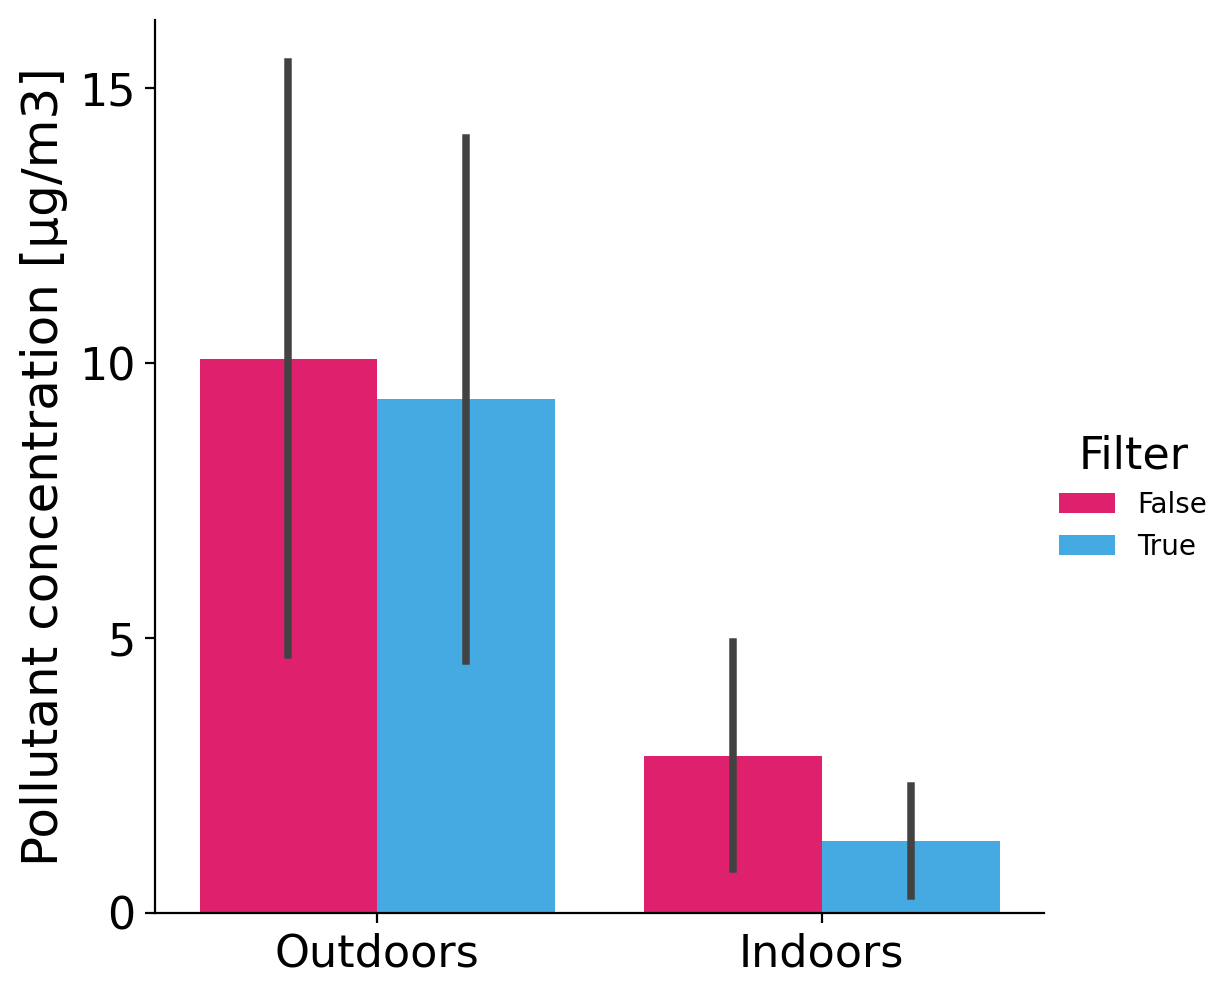
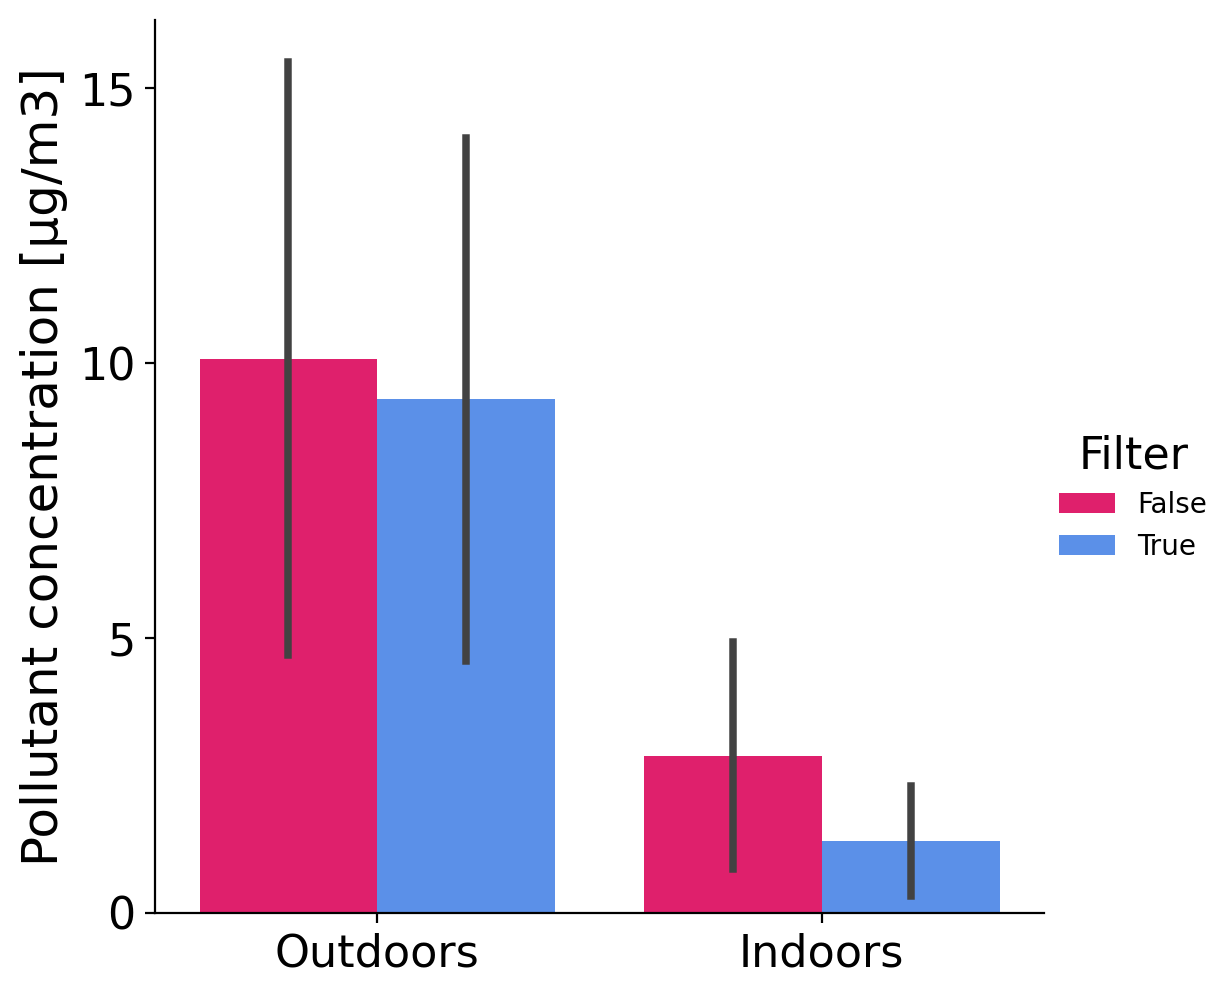
Adjusted plot layout. Plot vertical line to mark condition change.

Changed region(s): [[0.3084, 0.3739, 0.4627, 0.9347], [0.6477, 0.8412, 0.8328, 0.9347], [0.8636, 0.5296, 0.9253, 0.5608]]

diff --git a/py_air_quality/analysis/analysis_filter_effect_berlinluftdaten.py b/py_air_quality/analysis/analysis_filter_effect_berlinluftdaten.py
@@ -1,9 +1,10 @@
 #!/usr/bin/env python3
 # -*- coding: utf-8 -*-
 """
-WORK IN PROGRESS
+Plot & export air quality data.
 
-Test for the effect of an air purifier (filter) on indoor air quality.
+Create plots to inspect effect of air filter on indoor air quality & export data
+for further analysis in R.
 
 To assess the effect of the filter, we combine data from external & internal
 sources for analysis. The external data are hourly measurements from an outdoor
@@ -22,7 +23,7 @@ import pandas as pd
 import seaborn as sns
 from datetime import datetime, timedelta
 
-from read_csv_data import read_csv_data
+from py_air_quality.crud.read_csv_data import read_csv_data
 
 
 # ------------------------------------------------------------------------------
@@ -153,7 +154,7 @@ df_hourly = pd.concat([df_tmp_ext, df_tmp_int], axis=0, ignore_index=True)
 
 colours = [
     [float(x) / 255.0 for x in [255, 0, 102, 255]],
-    [float(x) / 255.0 for x in [44, 178, 252, 255]],
+    [float(x) / 255.0 for x in [68, 138, 255, 255]],
     ]
 
 graph = sns.catplot(
@@ -215,11 +216,33 @@ graph = sns.lineplot(
     x='datetime_hour',
     y=pollutant,
     hue='source',
-    style='filter',
+    # style='filter',
     data=df_hourly,
     palette=colours,
     ci=None,
     )
+
+# We would like to plot a vertical line at the time point when condition changed
+# from no filter to filter. Get the datetime of the condition changes.
+condition_changes = []
+for idx in df_hourly.loc[df_hourly['source'] == 'internal'].index:
+    try:
+        filter_t = df_hourly.iloc[idx]['filter']
+        filter_t_plus_one = df_hourly.iloc[(idx + 1)]['filter']
+        if filter_t != filter_t_plus_one:
+            condition_changes.append(df_hourly.iloc[(idx + 1)]['datetime_hour'])
+
+    except IndexError:
+        break
+
+for condition_change in condition_changes:
+    graph.axvline(x=condition_change,
+                  ymin=0,
+                  ymax=1,
+                  color=[0.0, 0.0, 0.0, 0.6],
+                  linewidth=2.75,
+                  linestyle=':',
+                  )
 
 # Axis layout:
 graph.axes.set_xlabel(None)
@@ -236,20 +259,30 @@ graph.axes.tick_params(labelsize=14)
 graph.axes.spines['top'].set_visible(False)
 graph.axes.spines['right'].set_visible(False)
 
-graph.get_legend().remove()
+# Adjust legend:
+legend = graph.get_legend()
+legend.set_title(None)
+legend.set_frame_on(False)
+for i in range(2):
+    legend_text = legend.texts[i].get_text()
+    if legend_text == 'internal':
+        legend.texts[i].set_text('Outdoors')
+    elif legend_text == 'external':
+        legend.texts[i].set_text('Indoors')
+    legend.texts[i].set_fontsize(14)
 
 graph.set_aspect(2.7)
 
 figure = graph.get_figure()
 figure.savefig(os.path.join(path_out, 'timeplot.png'),
-               dpi=200.0,
+               dpi=240.0,
                bbox_inches='tight',
                )
 figure.clf()
 
 
 # ------------------------------------------------------------------------------
-# *** Merge data from external & internal data source
+# *** Export data for analysis in R
 
 df_hourly_wide = df_hourly_wide.sort_values('timestamp')
 
